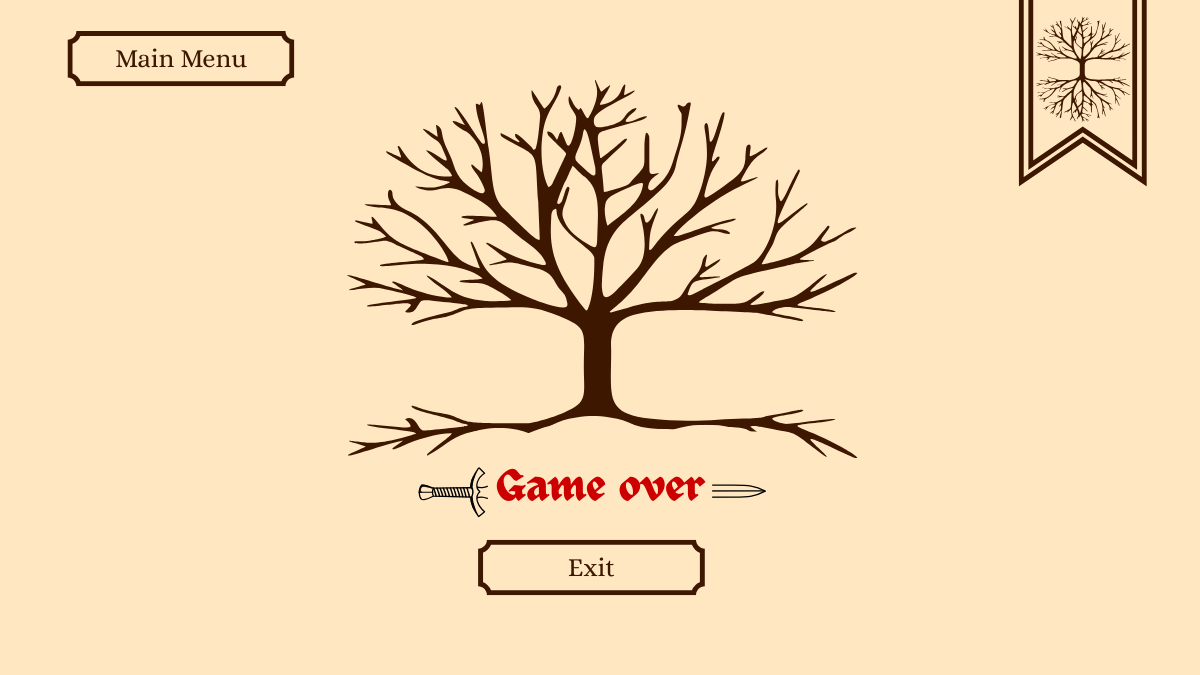
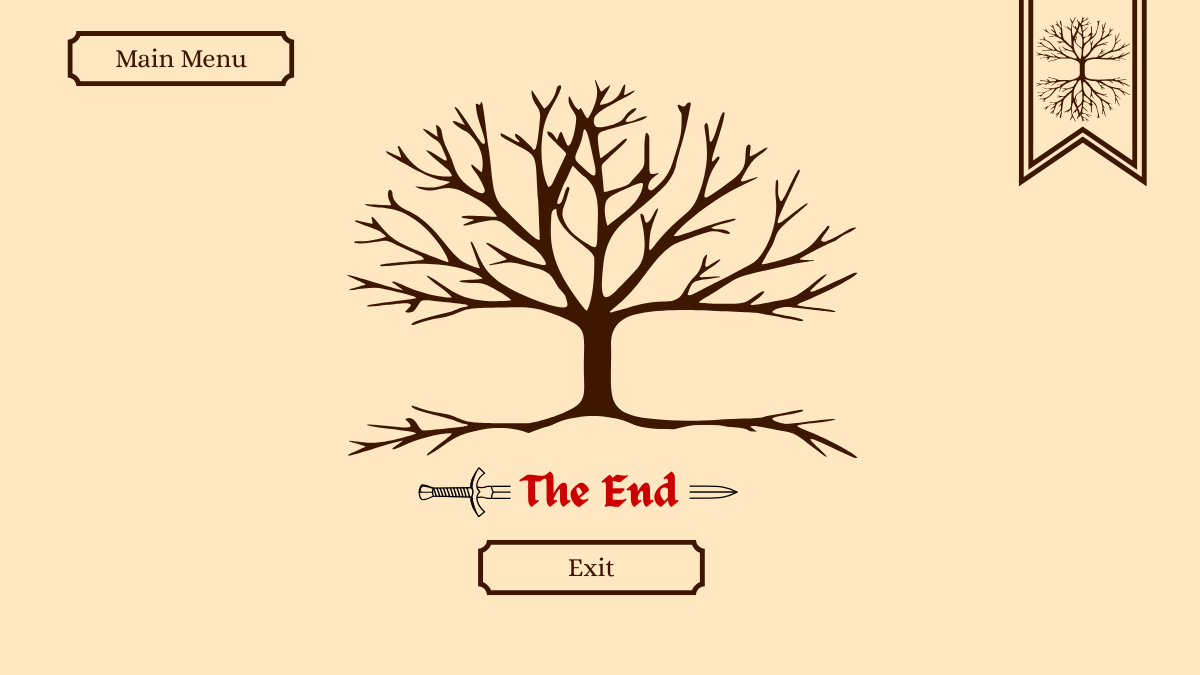
split up cpp and removed unused resources
end screen updated as well

Changed region(s): [[0.4008, 0.6844, 0.6475, 0.7467]]

diff --git a/src/raylib/rayGameManager.cpp b/src/raylib/rayGameManager.cpp
@@ -149,7 +149,7 @@ void GameManager::Update() {
         
         // -------- GAMEPLAY SCREEN INPUT --------
         case GameState::GAMEPLAY: {
-            {
+            
             const Room* room = rooms.getRoom(currentRoom);
             
             if (!room) break;
@@ -233,7 +233,7 @@ void GameManager::Update() {
                     default:
                         break;
             }
-        }}   
+        }   
     }
 }
 
@@ -244,64 +244,3 @@ void GameManager::LoadRoomsFromFile(const std::string& filename) {
     rooms.loadRooms(filename);
 }
 
-
-
-// Get the current room object
-bool RoomManager::loadRooms(const std::string& filename) {
-
-    std::ifstream file(filename);
-
-    if (!file.is_open()) return false;
-
-    std::string line;
-    while (std::getline(file, line)) {
-    
-        std::stringstream ss(line);
-        Room r;
-        std::string descPath;
-        ss >> r.index >> r.name >> descPath >> r.option1 >> r.option2;
-        
-        // Load rooms description from file
-        std::ifstream descFile(descPath);
-        r.description.clear();
-            if (descFile.is_open()) {
-                std::string textline;
-                while (std::getline(descFile, textline)) {
-                    r.description += textline + "\n";
-                }
-            }
-
-            rooms.push_back(r);
-        }
-    return true;
-}
-
-
-
-// Get a pointer to a room by index
-const Room* RoomManager::getRoom(int index) const {
-    for (const Room& r : rooms) {
-        if (r.index == index) return &r;
-    }
-    return nullptr;
-}
-
-
-
-// Get the texture for a room by index
-Texture2D RoomManager::getRoomTexture(int index) const {
-    for (size_t i = 0; i < rooms.size(); i++) {
-        if (rooms[i].index == index) return textures[i];
-    }
-    return {};
-}
-
-
-
-// Destructor to unload textures
-RoomManager::~RoomManager() {
-
-    for (const Texture2D& tex : textures) {
-        UnloadTexture(tex);
-    }
-}

diff --git a/src/raylib/RoomManager.cpp b/src/raylib/RoomManager.cpp
@@ -1,0 +1,66 @@
+#include "../../include/rayGameManager.h"
+#include <raylib.h>
+#include <fstream>
+#include <sstream>
+#include <string>
+#include <vector>
+
+// Get the current room object
+bool RoomManager::loadRooms(const std::string& filename) {
+
+    std::ifstream file(filename);
+
+    if (!file.is_open()) return false;
+
+    std::string line;
+    while (std::getline(file, line)) {
+    
+        std::stringstream ss(line);
+        Room r;
+        std::string descPath;
+        ss >> r.index >> r.name >> descPath >> r.option1 >> r.option2;
+        
+        // Load rooms description from file
+        std::ifstream descFile(descPath);
+        r.description.clear();
+            if (descFile.is_open()) {
+                std::string textline;
+                while (std::getline(descFile, textline)) {
+                    r.description += textline + "\n";
+                }
+            }
+
+            rooms.push_back(r);
+        }
+    return true;
+}
+
+
+
+// Get a pointer to a room by index
+const Room* RoomManager::getRoom(int index) const {
+    for (const Room& r : rooms) {
+        if (r.index == index) return &r;
+    }
+    return nullptr;
+}
+
+
+
+// Get the texture for a room by index
+Texture2D RoomManager::getRoomTexture(int index) const {
+    for (size_t i = 0; i < rooms.size(); i++) {
+        if (rooms[i].index == index) return textures[i];
+    }
+    return {};
+}
+
+
+
+// Destructor to unload textures
+RoomManager::~RoomManager() {
+
+    for (const Texture2D& tex : textures) {
+        UnloadTexture(tex);
+    }
+}

diff --git a/src/raylib/raytest.cpp b/src/raylib/raytest.cpp
@@ -39,15 +39,6 @@ int main() {
         game.Draw();
     }
 
-    
-    // Unload textures
-    UnloadTexture(game.menuBg);
-    UnloadTexture(game.gameplayScreen);
-    UnloadTexture(game.endScreen);
 
-    // Unload font
-    UnloadFont(game.font);
-
-    CloseWindow();
     return 0;
 }
